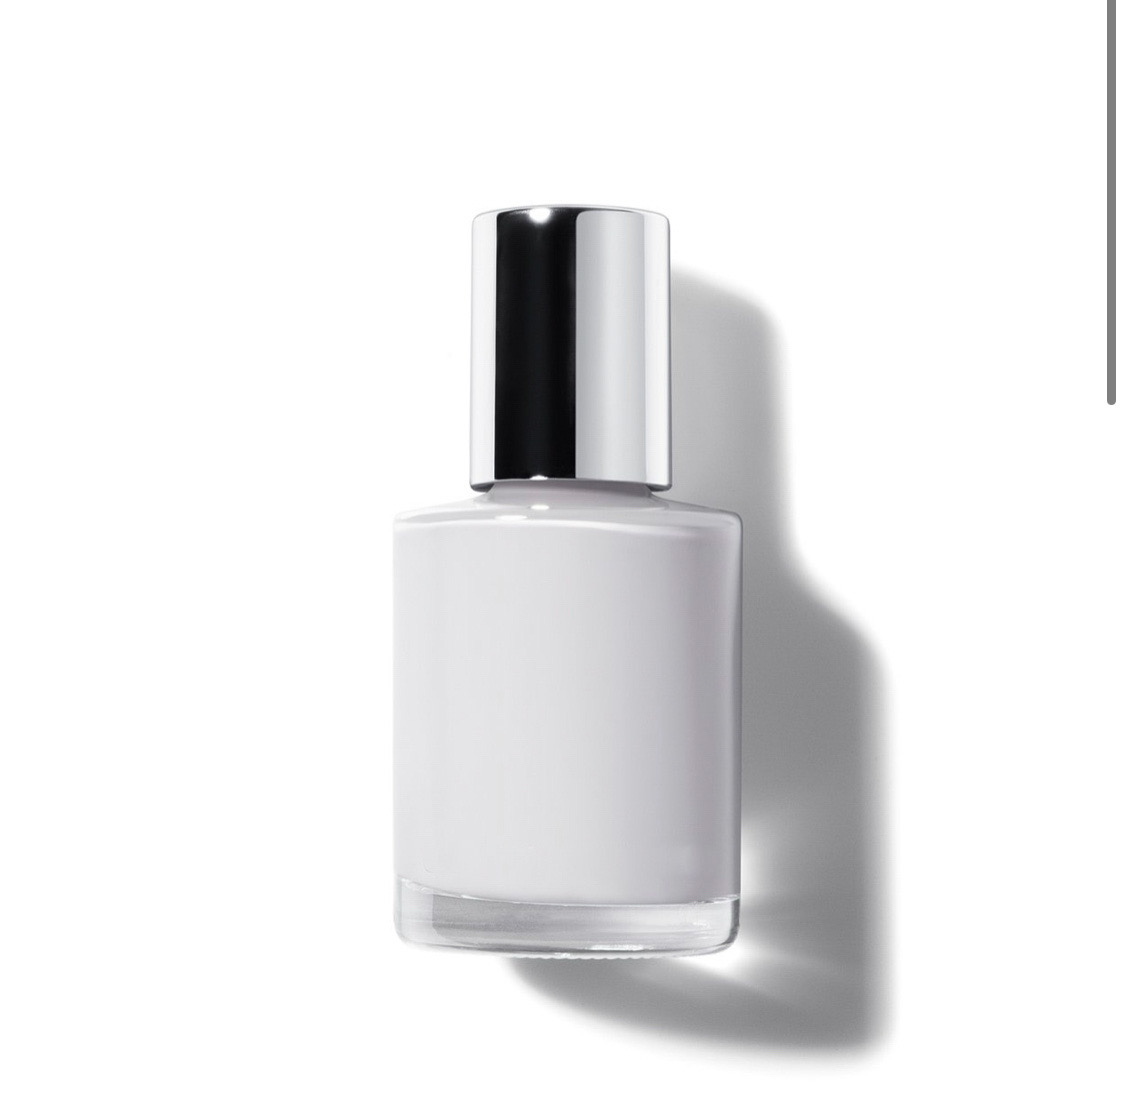
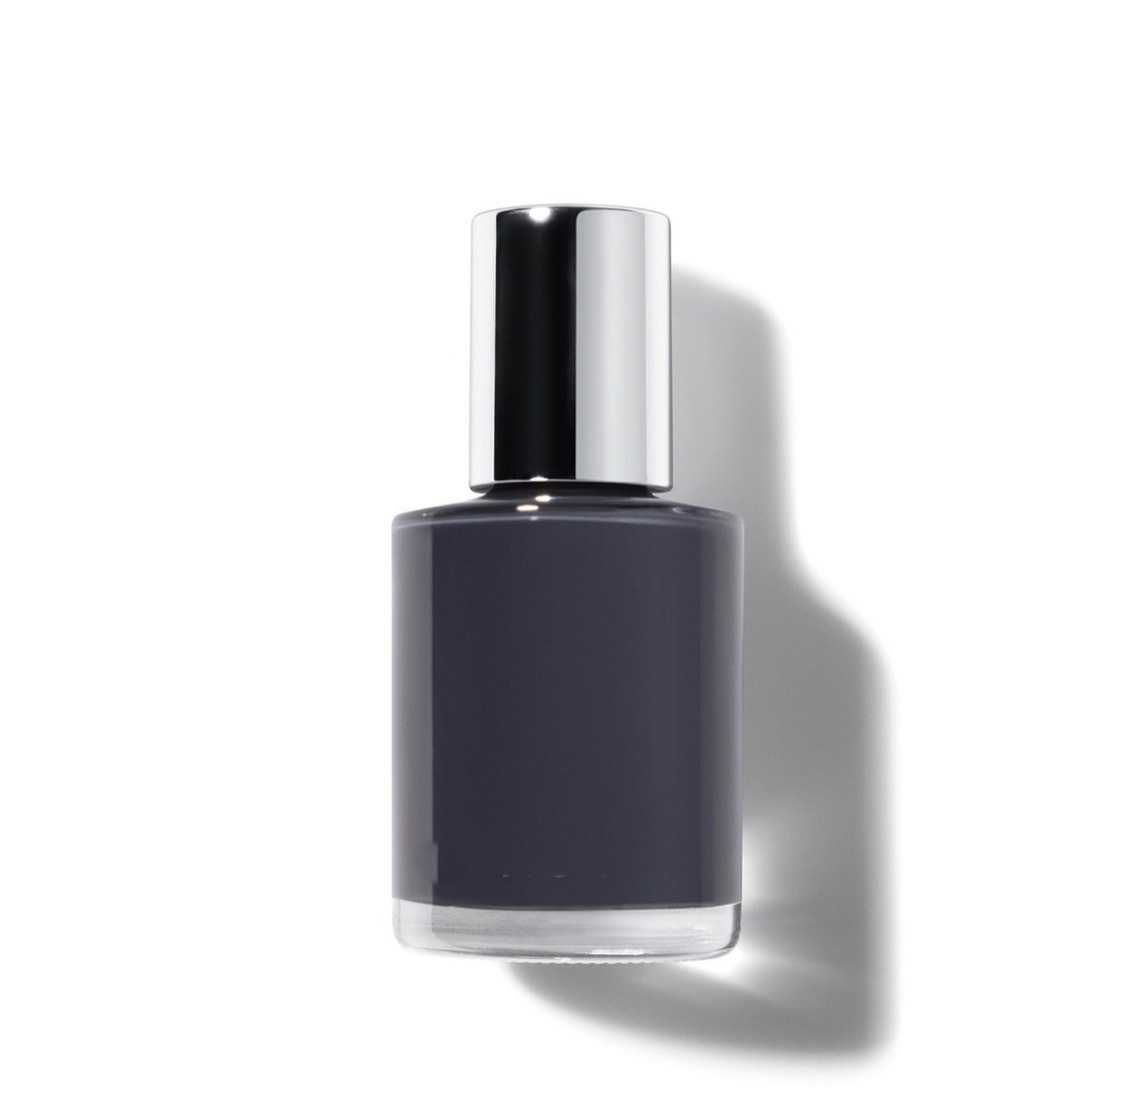
update seed files image and name

Changed region(s): [[0.3422, 0.4343, 0.6844, 0.9307], [0.9644, 0.0, 0.9956, 0.3723], [0.4356, 0.1861, 0.4667, 0.2172]]

diff --git a/script/seed.js b/script/seed.js
@@ -50,7 +50,8 @@ const dummyProducts = [
       'etiquette, posture, protocol. did we miss anything? oh, yes, this elegant soft mauve nail lacquer. this dainty darling is just the thing for a proper manicure.',
     price: 900,
     colorFamily: 'reds',
-    stock: 20
+    stock: 20,
+    imageUrl: '/9.JPEG'
   },
   {
     name: 'living legend',
@@ -58,15 +59,17 @@ const dummyProducts = [
       'recognized is your middle name in this longwear, rich risk-taking crimson – everyone will be vying for your cover photo. step 1: apply two coats of gel couture color.  step 2: apply gel couture top coat.',
     price: 1150,
     colorFamily: 'red',
-    stock: 75
+    stock: 75,
+    imageUrl: '/4.JPEG'
   },
   {
-    name: 'wild card',
+    name: 'the truth goddess',
     description:
       'you’re pretty tricky in a vibrant sapphire blue nail polish with a velvet matte finish. (matte)',
     price: 900,
     colorFamily: 'bluess',
-    stock: 99
+    stock: 99,
+    imageUrl: '/14.JPEG'
   },
   {
     name: 'dye-mentions',
@@ -74,7 +77,8 @@ const dummyProducts = [
       'all the angles. all the answers. there’s just no stopping this multifaceted, genius powder blue nail polish. step 1: apply two coats of gel couture color.  step 2: apply gel couture top coat.',
     price: 1150,
     colorFamily: 'greens',
-    stock: 80
+    stock: 80,
+    imageUrl: '/18.JPEG'
   }
 ]
 

diff --git a/script/productSeed.js b/script/productSeed.js
@@ -23,31 +23,12 @@ const imageUrls = [
   '/19.JPEG',
   '/20.JPEG',
   '/21.JPEG',
-  '/1.JPEG',
-  '/2.JPEG',
-  '/3.JPEG',
-  '/4.JPEG',
-  '/5.JPEG',
-  '/6.JPEG',
-  '/7.JPEG',
-  '/8.JPEG',
-  '/9.JPEG',
-  '/10.JPEG',
-  '/11.JPEG',
-  '/12.JPEG',
-  '/13.JPEG',
-  '/14.JPEG',
-  '/15.JPEG',
-  '/16.JPEG',
-  '/17.JPEG',
-  '/19.JPEG',
-  '/20.JPEG',
-  '/21.JPEG'
+  '/22.JPEG'
 ]
 
 for (let i = 0; i < 50; i++) {
   productSeed.push({
-    name: 'polish name',
+    name: faker.random.word() + ' ' + faker.commerce.color(),
     description:
       'a brief description of this product that represents the polishd brand',
     price: faker.random.number({

diff --git a/tier details.md b/tier details.md
@@ -1,137 +1,138 @@
 <!-- We can delete this file later on, this is here now for reference use! -->
+
 # Grace Shopper
 
 ## Tier 1: MVP Shopping Experience
 
 ### As a customer/visitor, I want to be able to:
 
-- access a deployed version of the website so I can browse and purchase products.
-- view all available products so I can pick from a variety.
-- view a single product so I can see more details.
-- add a product to my cart so I can collect my desired products in one place.
-- edit my cart if I change my mind:
-  - change the quantity of a product in my cart.
-  - remove a product in my cart.
-  - _No one else should be able to edit my cart except me._
-- "checkout" the items in my cart so I can purchase my desired goods.
-  - _Think of a typical user experience on popular websites from a guest user and logged-in user perspective._
-  - _You can just start with by simulating the experience of checking out with a simple confirmation page._
-- create an account so I can have a logged-in experience.
+* access a deployed version of the website so I can browse and purchase products.
+* view all available products so I can pick from a variety.
+* view a single product so I can see more details.
+* add a product to my cart so I can collect my desired products in one place.
+* edit my cart if I change my mind:
+  * change the quantity of a product in my cart.
+  * remove a product in my cart.
+  * _No one else should be able to edit my cart except me._
+* "checkout" the items in my cart so I can purchase my desired goods.
+  * _Think of a typical user experience on popular websites from a guest user and logged-in user perspective._
+  * _You can just start with by simulating the experience of checking out with a simple confirmation page._
+* create an account so I can have a logged-in experience.
 
 ### As a logged-in customer, I want to be able to:
 
-- have a persistent cart so I can revisit and pick up where I left off.
-  - _Logged-in-user across multiple devices: I'm logged in on my mobile device and add some items to my cart. When I open the browser on my laptop and log in, I want to see those items in my cart._
-  - _No one else should be able to edit my cart except me._
+* have a persistent cart so I can revisit and pick up where I left off.
+  * _Logged-in-user across multiple devices: I'm logged in on my mobile device and add some items to my cart. When I open the browser on my laptop and log in, I want to see those items in my cart._
+  * _No one else should be able to edit my cart except me._
 
 ### As an administrator, I want to be able to:
 
-- have validated data to ensure reliability.
-  - _i.e. each customer that creates an account should only be able to do so once with a single email address._
-- have full rights to make baceknd requests to add, edit, and remove products.
-  - _No one else should have access._
-- view user information.
-  - _No one else should have access._
+* have validated data to ensure reliability.
+  * _i.e. each customer that creates an account should only be able to do so once with a single email address._
+* have full rights to make backend requests to add, edit, and remove products.
+  * _No one else should have access._
+* view user information.
+  * _No one else should have access._
 
 ### As an engineer, I want to:
 
-- have a well-seeded database so that I am able to simulate a number of different scenarios for the user stories below.
-  - _By doing this, you really set yourselves up to tackle many of the points throughout the tiers. In the long run, this will save you, potentially, tons of time._
-  - _For example, seed hundreds of products with dummy data so that when you get to the “pagination” user story, you won’t have to worry about adding more products._
-  - _Likewise, add a bunch of users with products in their carts so editing the cart can be worked on without already having the “add to cart” functionality built out._
-- user data to be secure so that no one can unrightfully manipulate information.
+* have a well-seeded database so that I am able to simulate a number of different scenarios for the user stories below.
+  * _By doing this, you really set yourselves up to tackle many of the points throughout the tiers. In the long run, this will save you, potentially, tons of time._
+  * _For example, seed hundreds of products with dummy data so that when you get to the “pagination” user story, you won’t have to worry about adding more products._
+  * _Likewise, add a bunch of users with products in their carts so editing the cart can be worked on without already having the “add to cart” functionality built out._
+* user data to be secure so that no one can unrightfully manipulate information.
 
 ## TIER 2: E-Commerce Essentials
 
 ### As a customer, I want to be able to:
 
-- see all products that belong to a certain category.
-  - _Keep this simple. For example, a product can only belong to one category._
-- explore an aesthetically pleasing website so I can easily navigate around and enjoy the experience (UI/UX).
-  - _This includes front-end data validations. For example, if certain fields of a form are required and must be in a specific format, this is obvious to the user._
-- have a persistent cart so I can revisit and pick up where I left off.
-  - _There are two more experiences to consider here. Explore your favorite websites to see what the intended behavior is for the following cases:_
-    - **Guest-only:** I don't want to create an account, but I want my cart to persist between browser refreshes.
-      - Look into front-end storage for this one.
-    - **Guest-to-logged-in-user:** Initially, I'm not logged in, and I add items to my cart. When I eventually log in, I want to see those same items I added when I was logged in still in my cart, in addition to the items I may have had in my cart from a previous logged in session.
+* see all products that belong to a certain category.
+  * _Keep this simple. For example, a product can only belong to one category._
+* explore an aesthetically pleasing website so I can easily navigate around and enjoy the experience (UI/UX).
+  * _This includes front-end data validations. For example, if certain fields of a form are required and must be in a specific format, this is obvious to the user._
+* have a persistent cart so I can revisit and pick up where I left off.
+  * _There are two more experiences to consider here. Explore your favorite websites to see what the intended behavior is for the following cases:_
+    * **Guest-only:** I don't want to create an account, but I want my cart to persist between browser refreshes.
+      * Look into front-end storage for this one.
+    * **Guest-to-logged-in-user:** Initially, I'm not logged in, and I add items to my cart. When I eventually log in, I want to see those same items I added when I was logged in still in my cart, in addition to the items I may have had in my cart from a previous logged in session.
 
 ### As a logged-in customer, I want to be able to:
 
-- see my order history so I can remember my previously purchased items and their prices at the time of purchase.
-- view and edit my user profile so I can update my information when necessary.
-- log in through third-party authentication so I can avoid creating an account specific to the website.
-  - _For example, Google OAuth._
+* see my order history so I can remember my previously purchased items and their prices at the time of purchase.
+* view and edit my user profile so I can update my information when necessary.
+* log in through third-party authentication so I can avoid creating an account specific to the website.
+  * _For example, Google OAuth._
 
 ### As an administrator, I want to be able to:
 
-- allow customers to have a variety of payment method options in order to increase checkout conversion.
-  - _Begin by integrating Stripe, and, if interested, dive into integrating PayPal, Venmo, Braintree, or Bitcoin._
-- edit products and manage users through a dashboard so I can easily make changes and assessments as necessary.
+* allow customers to have a variety of payment method options in order to increase checkout conversion.
+  * _Begin by integrating Stripe, and, if interested, dive into integrating PayPal, Venmo, Braintree, or Bitcoin._
+* edit products and manage users through a dashboard so I can easily make changes and assessments as necessary.
 
 ### As an engineer, I want:
 
-- [continuous integration and delivery (deployment)](https://www.atlassian.com/continuous-delivery/continuous-integration) of the codebase so that there are lower rates of release failure.
+* [continuous integration and delivery (deployment)](https://www.atlassian.com/continuous-delivery/continuous-integration) of the codebase so that there are lower rates of release failure.
 
 ## TIER 3: Extra Features & Flair
 
 ### As an administrator, I want to be able to:
 
-- ensure accurate product inventory so that we can be sure only available products are sold.
-  - _For example, when a customer purchases an item, the quantity available is appropriately deducted._
-  - _Likewise, if a customer attempts to purchase a higher quantity of an item that is available, they will be alerted/notified that there isn't enough inventory._
-- offer customers discounts through promo codes so that we can incentivize purchases.
+* ensure accurate product inventory so that we can be sure only available products are sold.
+  * _For example, when a customer purchases an item, the quantity available is appropriately deducted._
+  * _Likewise, if a customer attempts to purchase a higher quantity of an item that is available, they will be alerted/notified that there isn't enough inventory._
+* offer customers discounts through promo codes so that we can incentivize purchases.
 
 ### As a customer, I want to be able to:
 
 #### Receive Notifications
 
-- receive an email confirmation when placing an order so that I can easily reference it when needed without visiting my account.
-- be notified when certain events occur so that I am informed of my actions.
-  - _For example, when I add a product to my cart, there is a toast notification that pops up in the corner of the page with an appropriate message for that action._
+* receive an email confirmation when placing an order so that I can easily reference it when needed without visiting my account.
+* be notified when certain events occur so that I am informed of my actions.
+  * _For example, when I add a product to my cart, there is a toast notification that pops up in the corner of the page with an appropriate message for that action._
 
 #### Have A Seamless Experience
 
-- navigate the website successfully regardless of whether or not I am handicapped so that my experience isn't hampered.
-  - _This is a great opportunity to dive into ADA Compliance (screen-reader friendliness, keyboard navigation, colorblind-friendly, etc.)._
-  - _[A11y Checklist](https://a11yproject.com/checklist)_
-- view a display to know when content is loading or there is an error so that I can manage my expectations.
-  - _For example, loading spinners while the frontend is waiting for a backend response._
-  - _As a customer, if I visit a product page that doesn't exist, notify me that it doesn't and bring me to all products. Likewise, if I visit a page that outright doesn't exist, navigate me to the landing page._
+* navigate the website successfully regardless of whether or not I am handicapped so that my experience isn't hampered.
+  * _This is a great opportunity to dive into ADA Compliance (screen-reader friendliness, keyboard navigation, colorblind-friendly, etc.)._
+  * _[A11y Checklist](https://a11yproject.com/checklist)_
+* view a display to know when content is loading or there is an error so that I can manage my expectations.
+  * _For example, loading spinners while the frontend is waiting for a backend response._
+  * _As a customer, if I visit a product page that doesn't exist, notify me that it doesn't and bring me to all products. Likewise, if I visit a page that outright doesn't exist, navigate me to the landing page._
 
 #### Have A User-Friendly Experience
 
-- filter through all products.
-  - _This is an opportunity to dive into a "search" input field. You can filter all products using vanilla JavaScript, or look into Algolia (search-as-a-service)._
-- browse through all products in a digestible way so that I am not overwhelmed with an endless list of products.
-  - _Dive into pagination here!_
-  - _This goes back to the initial seed in Tier 1. If you have a database seeded with thousands of products, there shouldn't be any blockers in order to tackle this user story. It also begs the question of whether we should fetch all of the products from the database or limit the response in intervals (e.g. 25 at a time) and show more only through a user action (e.g. clicking a “Next”/”Show More” button)._
-  - _Keep in mind, if you already have the product filter feature built out, can you get pagination to work on the results as well?_
-- view featured products so that I can get inspiration.
-  - _For example, display the five most purchased products within a given period of time (i.e. yesterday or last week), or the most recently added products._
-- add products to a wishlist so that I can differentiate products I would like to purchase now (cart) versus products I might be interested in purchasing in the future (wishlist).
+* filter through all products.
+  * _This is an opportunity to dive into a "search" input field. You can filter all products using vanilla JavaScript, or look into Algolia (search-as-a-service)._
+* browse through all products in a digestible way so that I am not overwhelmed with an endless list of products.
+  * _Dive into pagination here!_
+  * _This goes back to the initial seed in Tier 1. If you have a database seeded with thousands of products, there shouldn't be any blockers in order to tackle this user story. It also begs the question of whether we should fetch all of the products from the database or limit the response in intervals (e.g. 25 at a time) and show more only through a user action (e.g. clicking a “Next”/”Show More” button)._
+  * _Keep in mind, if you already have the product filter feature built out, can you get pagination to work on the results as well?_
+* view featured products so that I can get inspiration.
+  * _For example, display the five most purchased products within a given period of time (i.e. yesterday or last week), or the most recently added products._
+* add products to a wishlist so that I can differentiate products I would like to purchase now (cart) versus products I might be interested in purchasing in the future (wishlist).
 
 ## TIER 4: S Tier
 
 ### As a customer, I want to be able to:
 
-- post products to my social media accounts so that I can share with my friends/followers.
-  - _For example, integrating Facebook to create a post of a product's name, description, photo and link._
-- receive recommended products so that I can have a customized user experience and get inspiration.
-  - _For example, based on products viewed (similar products; matching "tags")._
-- feel like the website experience is customized for my native language.
-  - **Internationalization (i19n)**
-    - _The process of designing and building an application to facilitate localization. The main concern is that applications can be adapted to various languages and regions without engineering changes._
-  - **Localization (i10n)**
-    - _The cultural and linguistic adaptation of an internationalized application to two or more culturally-distinct markets._
-    - _For example, the website while the main language of the United States and United Kingdom is English, the currency (\$ vs. £) and date format (12/31/2020 vs. 31/12/2020) vary._
-  - _[Mozilla Internationalization & Localization Guidelines](https://www-archive.mozilla.org/docs/reflist/i18n/)_
+* post products to my social media accounts so that I can share with my friends/followers.
+  * _For example, integrating Facebook to create a post of a product's name, description, photo and link._
+* receive recommended products so that I can have a customized user experience and get inspiration.
+  * _For example, based on products viewed (similar products; matching "tags")._
+* feel like the website experience is customized for my native language.
+  * **Internationalization (i19n)**
+    * _The process of designing and building an application to facilitate localization. The main concern is that applications can be adapted to various languages and regions without engineering changes._
+  * **Localization (i10n)**
+    * _The cultural and linguistic adaptation of an internationalized application to two or more culturally-distinct markets._
+    * _For example, the website while the main language of the United States and United Kingdom is English, the currency (\$ vs. £) and date format (12/31/2020 vs. 31/12/2020) vary._
+  * _[Mozilla Internationalization & Localization Guidelines](https://www-archive.mozilla.org/docs/reflist/i18n/)_
 
 ### As an administrator, I want to be able to:
 
-- visualize relevant KPIs (key performance indicators) in the admin dashboard so that I can make educated business decisions.
-  - _For example, a line graph of total sales over time._
+* visualize relevant KPIs (key performance indicators) in the admin dashboard so that I can make educated business decisions.
+  * _For example, a line graph of total sales over time._
 
 ### As a CEO/CTO, I want:
 
-- the website to allow for multi tenancy so that we can potentially white label the application and allow users to create "shops."
-  - _Think Etsy and Amazon, where the sellers can have their own "shops" within the platforms._
+* the website to allow for multi tenancy so that we can potentially white label the application and allow users to create "shops."
+  * _Think Etsy and Amazon, where the sellers can have their own "shops" within the platforms._
